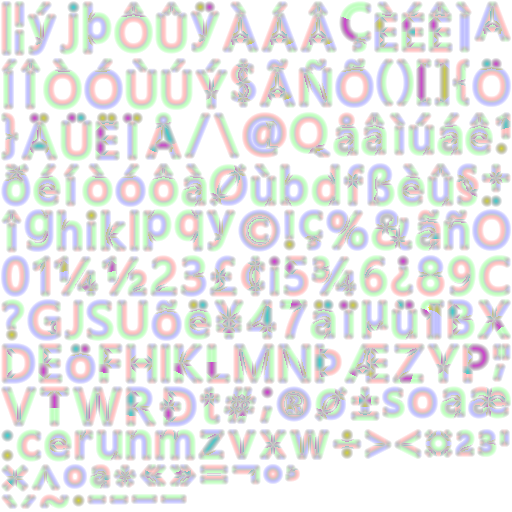
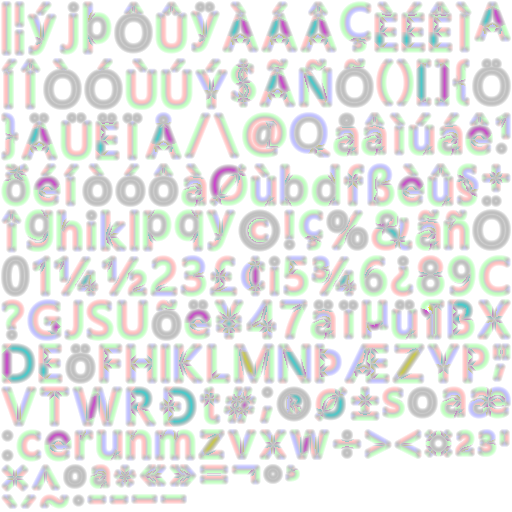
further work on color selector; added font variants

diff --git a/src/viewer.h b/src/viewer.h
@@ -9,7 +9,7 @@
 #include <cgv_glutil/application_plugin.h>
 #include <cgv_glutil/color_map.h>
 #include <cgv_glutil/color_map_editor.h>
-// #include <cgv_glutil/color_selector.h>
+#include <cgv_glutil/color_selector.h>
 #include <cgv_glutil/frame_buffer_container.h>
 #include <cgv_glutil/shader_library.h>
 #include <cgv_glutil/box_wire_render_data.h>
@@ -48,7 +48,7 @@ protected:
 	view* view_ptr = nullptr;
 	/// store a pointer to the transfer function editor
 	cgv::glutil::color_map_editor_ptr tf_editor_ptr = nullptr;
-	// cgv::glutil::color_selector_ptr cs_ptr = nullptr;
+	cgv::glutil::color_selector_ptr cs_ptr = nullptr;
 	
 	std::string input_path;
 
